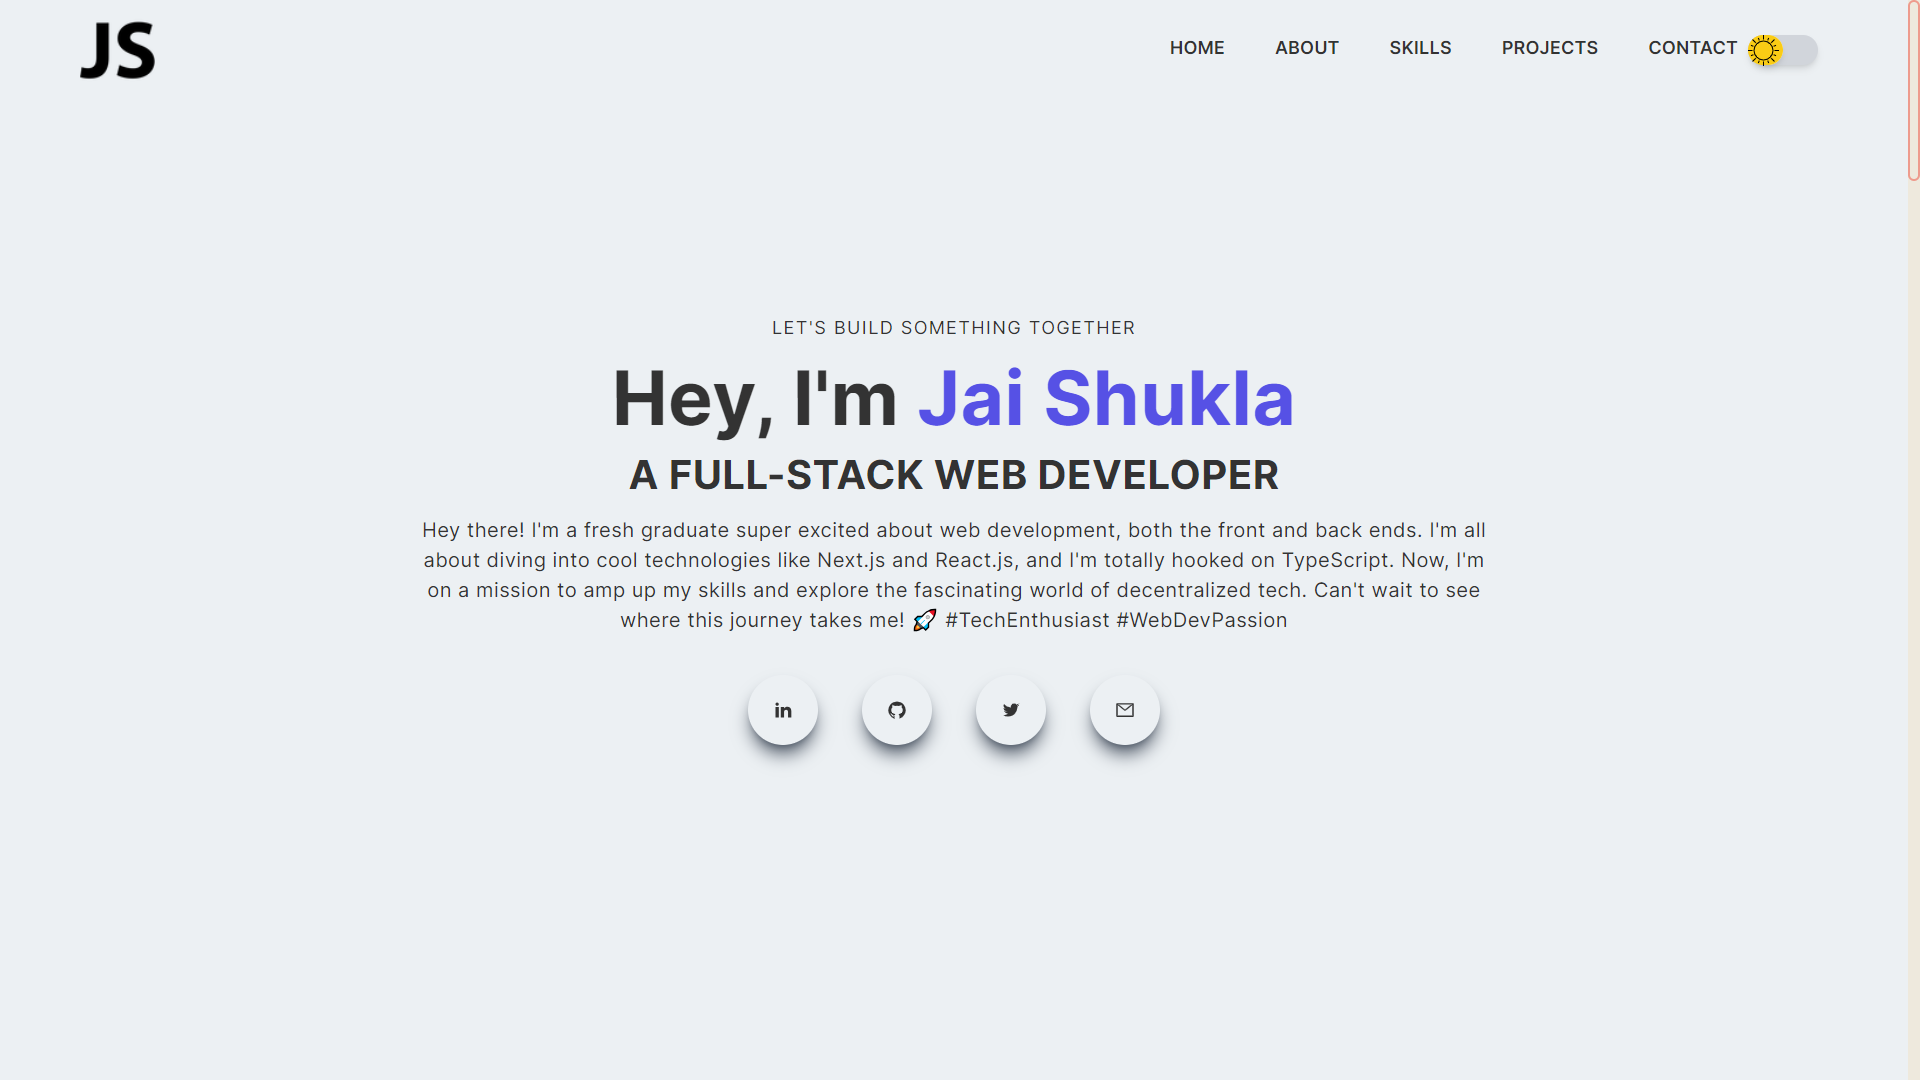
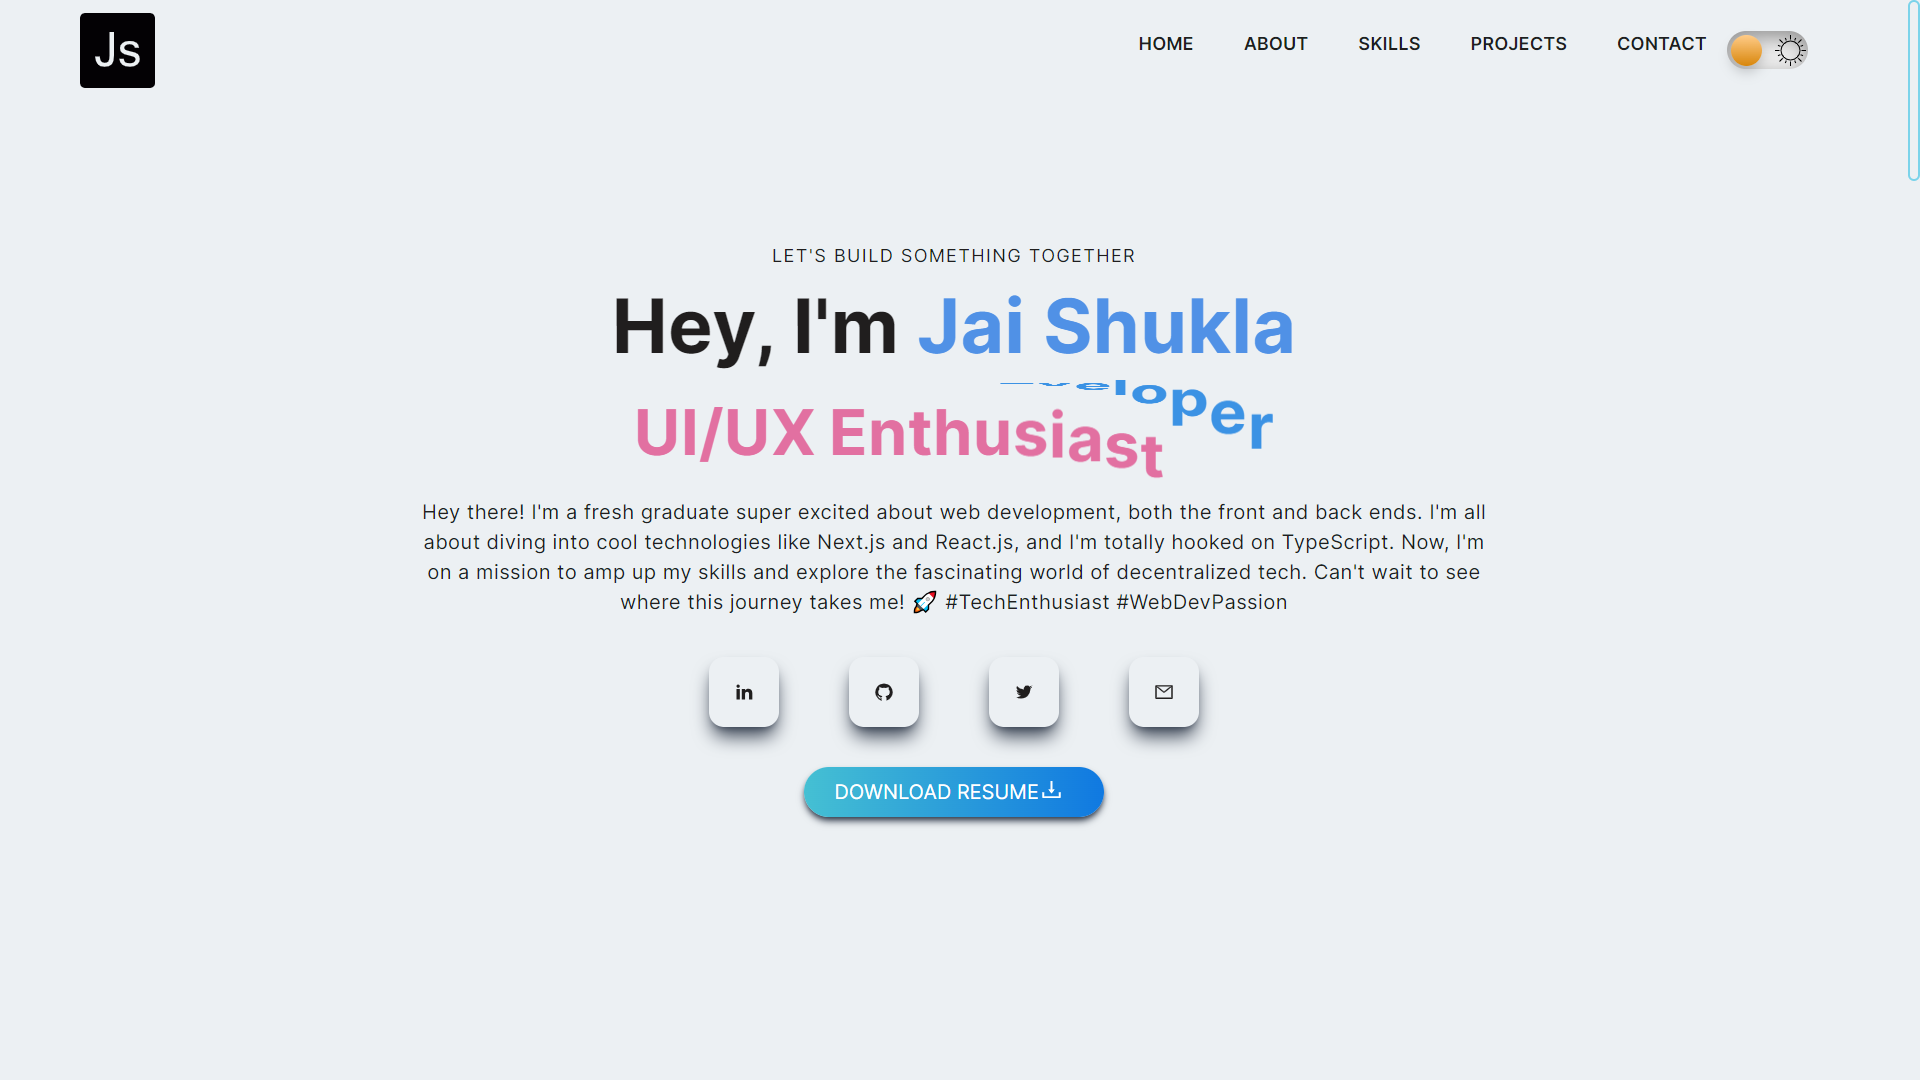
minor changes

diff --git a/src/app/core/components/projects/Projects.tsx b/src/app/core/components/projects/Projects.tsx
@@ -11,13 +11,13 @@ const Projects = () => {
         <AnimatedText text='Projects' />
         <h2 className='py-4 text-2xl'>Have a look at what I've built</h2>
         <div className='grid md:grid-cols-2 gap-8'>
-          <Projectitems title='Portfolio' backgroundImg={"/assets/projects/portfolio.png"} projectUrl='/portfolio' Stack="Next Js" />
-          <Projectitems title='Railway App' backgroundImg={"/assets/projects/railway.png"} projectUrl='/railway' Stack="Next Js" />
-          <Projectitems title='Admin Panel' backgroundImg={"/assets/projects/snipit-admin1.png"} projectUrl='/snipit-admin' Stack="Next Js" />
-          <Projectitems title='Next Chat App' backgroundImg={"/assets/projects/nextchatapp.png"} projectUrl='/next-chat-app' Stack="Next Js" />
-          <Projectitems title='React Movie App' backgroundImg={"/assets/projects/movieapp.png"} projectUrl='/movie-app' Stack="React Js" />
-          <Projectitems title='Ambulance Booking App' backgroundImg={"/assets/projects/ambulance.png"} projectUrl='/ambulance' Stack="Next Js" />
-          <Projectitems title='MERN E-Commerce' backgroundImg={"/assets/projects/banner1.png"} projectUrl='/mern-ecommerce' Stack="React-Js" />
+          <Projectitems title='Portfolio' backgroundImg={"/assets/projects/portfolio.png"} projectUrl='/portfolio' stack="Next Js" />
+          <Projectitems title='Railway App' backgroundImg={"/assets/projects/railway.png"} projectUrl='/railway' stack="Next Js" />
+          <Projectitems title='Admin Panel' backgroundImg={"/assets/projects/snipit-admin1.png"} projectUrl='/snipit-admin' stack="Next Js" />
+          <Projectitems title='Next Chat App' backgroundImg={"/assets/projects/nextchatapp.png"} projectUrl='/next-chat-app' stack="Next Js" />
+          <Projectitems title='React Movie App' backgroundImg={"/assets/projects/movieapp.png"} projectUrl='/movie-app' stack="React Js" />
+          <Projectitems title='Ambulance Booking App' backgroundImg={"/assets/projects/ambulance.png"} projectUrl='/ambulance' stack="Next Js" />
+          <Projectitems title='MERN E-Commerce' backgroundImg={"/assets/projects/banner1.png"} projectUrl='/mern-ecommerce' stack="React-Js" />
         </div>
       </div>
     </div>

diff --git a/src/app/core/components/projects/components/ProjectItems.tsx b/src/app/core/components/projects/components/ProjectItems.tsx
@@ -6,19 +6,25 @@ interface ProjectItemsProps {
   title: string;
   backgroundImg: string;
   projectUrl: string;
-  Stack: string;
+  stack: string; // Use camelCase for consistency
 }
 
-const ProjectItems: React.FC<ProjectItemsProps> = ({ title, backgroundImg, projectUrl, Stack }) => {
+const ProjectItems: React.FC<ProjectItemsProps> = ({ title, backgroundImg, projectUrl, stack }) => {
   return (
     <div className='relative flex items-center justify-center h-auto w-full shadow-lg shadow-gray-500 rounded-xl p-4 group hover:bg-gradient-to-r from-[#59fff7] to-[#0f73d8]'>
-      <Image className='rounded-xl group-hover:opacity-10' src={backgroundImg} alt='/' width={564} height={310} layout="responsive" objectFit="cover"/>
+      {/* Use alt text that describes the image */}
+      <Image className='rounded-xl group-hover:opacity-10' src={backgroundImg} alt={`${title} project`} width={564} height={310} layout="responsive" objectFit="cover" />
 
-      <div className='hidden group-hover:block absolute top-[50%] left-[50%] translate-x-[-50%] translate-y-[-50%]'>
+      {/* Extracted project details into a separate div for better structure */}
+      <div className='hidden group-hover:block absolute top-[50%] left-[50%] transform-translate-center'>
         <h3 className='text-2xl text-white tracking-wider text-center'>{title}</h3>
-        <p className='pb-4 pt-2 text-white text-center'>{Stack}</p>
+        <p className='pb-4 pt-2 text-white text-center'>{stack}</p>
+
+        {/* Wrap Link around the entire div for better clickability */}
         <Link href={projectUrl}>
-          <p className='text-center py-3 px-3 rounded-lg bg-white text-gray-700 font-bold text-lg cursor-pointer'>View Details</p>
+          <div className='text-center py-3 px-3 rounded-lg bg-white text-gray-700 font-bold text-lg cursor-pointer'>
+            View Details
+          </div>
         </Link>
       </div>
     </div>

diff --git a/src/app/core/components/navbar/Navbar.tsx b/src/app/core/components/navbar/Navbar.tsx
@@ -1,12 +1,10 @@
 "use client"
 import Image from 'next/image'
 import Link from 'next/link'
-import { usePathname, useRouter } from 'next/navigation';
 import React, { useEffect, useState } from 'react'
 import {AiOutlineClose, AiOutlineMenu,AiFillGithub, AiOutlineTwitter, AiOutlineMail} from 'react-icons/ai'
 import {RiLinkedinFill} from 'react-icons/ri'
 import DarkMode from '../darkmode/DarkMode';
-import SocialMediaLinks from '../home/SocialMediaLinks';
 const Navbar = () => {
 
   const[nav,setnav]= useState(false)
@@ -110,7 +108,25 @@ const Navbar = () => {
 
               <div className='flex items-center justify-between my-4 w-full sm:w-[80%]'>
 
-               <SocialMediaLinks/>
+             
+              <a href='https://www.linkedin.com/in/jai-shukla-56041016a/'> <div className='rounded-full shadow-lg shadow-gray-400 p-3 cursor-pointer hover:scale-105 ease-in duration-300'> 
+                  <RiLinkedinFill/>
+                </div> </a>
+                <a href='https://github.com/lonewolf-hub'>
+                <div className='rounded-full shadow-lg shadow-gray-400 p-3 cursor-pointer hover:scale-105 ease-in duration-300'> 
+                  <AiFillGithub/>
+                </div>
+                </a>
+              <a href='https://twitter.com/JaiShukla9128'>
+                <div className='rounded-full shadow-lg shadow-gray-400 p-3 cursor-pointer hover:scale-105 ease-in duration-300'> 
+                 <AiOutlineTwitter/>
+                </div>
+                </a>
+                <a href='mailto: iamshuklajai@gmail.com'>
+                <div className='rounded-full shadow-lg shadow-gray-400 p-3 cursor-pointer hover:scale-105 ease-in duration-300'> 
+                  <AiOutlineMail/>
+                </div>
+                </a>
               </div>
               </div>
             </div>

diff --git a/src/app/core/components/contact/Form.tsx b/src/app/core/components/contact/Form.tsx
@@ -18,23 +18,16 @@ const Form = () => {
                     </label>
                     <input name='name' className='border-2 rounded-lg p-3 flex border-gray-500 bg-transparent' type="text" required />
                   </div>
-
                   <div className='flex flex-col'>
-                    <label className='uppercase text-sm py-2'>
-                      Phone Number
-                    </label>
-                    <input name='phone' className='border-2 rounded-lg p-3 flex border-gray-500 bg-transparent' type="text" />
-                  </div>
-
-                </div>
-
-                <div className='flex flex-col py-2'>
                   <label className='uppercase text-sm py-2'>
                     EMAIL
                   </label>
                   <input name='email' className='border-2 rounded-lg p-3 flex border-gray-500 bg-transparent' type="email" required />
 
                 </div>
+                </div>
+
+            
 
                 <div className='flex flex-col py-2'>
                   <label className='uppercase text-sm py-2'>

diff --git a/src/app/core/components/skills/SkillItems.tsx b/src/app/core/components/skills/SkillItems.tsx
@@ -1,4 +1,3 @@
-
 import React from 'react';
 import Image from 'next/image';
 
@@ -12,10 +11,17 @@ const SkillItem: React.FC<SkillItemProps> = ({ imageSrc, skillName }) => {
     <div className='p-6 shadow-xl rounded-xl hover:scale-105 ease-in duration-300'>
       <div className='grid grid-cols-2 gap-4 justify-center items-center'>
         <div className='m-auto'>
-          <Image src={imageSrc} width={64} height={64} alt={skillName} />
+          {/* Smaller image size on mobile devices */}
+          <Image
+            src={imageSrc}
+            width={60}
+            height={60}
+            alt={skillName}
+            className='w-12 h-12 md:w-16 md:h-16' // Adjust the width and height for smaller screens
+          />
         </div>
         <div>
-          <h3 className='flex flex-col items-center justify-center'>{skillName}</h3>
+          <h3 className='flex flex-col items-center justify-center text-xs md:text-base'>{skillName}</h3>
         </div>
       </div>
     </div>

diff --git a/src/app/core/components/home/HomeComponent.tsx b/src/app/core/components/home/HomeComponent.tsx
@@ -38,7 +38,7 @@ const HomeComponent = () => {
           <p className='py-4 text-textColor max-w-[70%] m-auto '>
             Hey there! I'm a fresh graduate super excited about web development, both the front and back ends. I'm all about diving into cool technologies like Next.js and React.js, and I'm totally hooked on TypeScript. Now, I'm on a mission to amp up my skills and explore the fascinating world of decentralized tech. Can't wait to see where this journey takes me! 🚀 #TechEnthusiast #WebDevPassion</p>
 
-          <div className='flex justify-center'>
+          <div className='flex justify-center items-center'>
             <SocialMediaLinks />
           </div>
           <div className='my-4 flex items-center justify-center'>

diff --git a/src/app/core/components/contact/Contact.tsx b/src/app/core/components/contact/Contact.tsx
@@ -10,7 +10,7 @@ import AnimatedText from '../about/AnimatedText'
 const Contact = () => {
   return (
     <div id='contact' className='w-full bg-bodyBackground text-textColor'>
-      <div className='max-w-[1240px] m-auto px-2 py-16 w-full '>
+      <div className='m-auto px-2 py-16 w-full '>
       <AnimatedText text='Contact'/>
         <p className='py-4 text-2xl font-bold'>Let's get in touch</p>
         <div className='grid lg:grid-cols-5 gap-8'>

diff --git a/src/app/core/components/home/SocialMediaLinks.tsx b/src/app/core/components/home/SocialMediaLinks.tsx
@@ -26,7 +26,7 @@ const SocialMediaLinks: React.FC = () => {
   ];
 
   return (
-    <div className='flex items-center justify-between min-w-[400px] sm:max-w-[100px]  py-4'>
+    <div className='flex items-center gap-10 md:gap-12 lg:gap-14 py-4'>
       {socialLinks.map((link, index) => (
         <SocialLink key={index} href={link.href} icon={link.icon} />
       ))}
